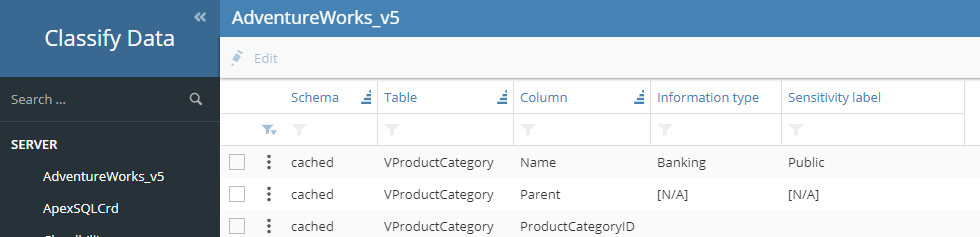
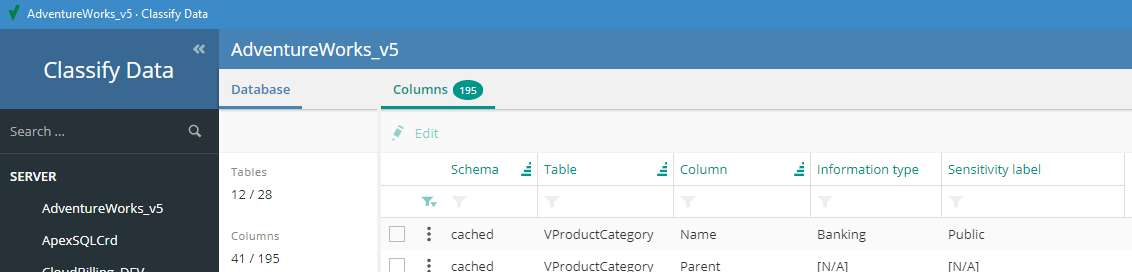
Added configuration

diff --git a/ClassifyData/App_Data/Websites/Default/index.html b/ClassifyData/App_Data/Websites/Default/index.html
@@ -1,14 +1,31 @@
-<!DOCTYPE html>
+<!DOCTYPE html>
 <html lang="en">
 <head>
     <meta charset="utf-8" />
-    <meta http-equiv="X-UA-Compatible" content="IE=edge" />
     <title>Classify Data</title>
     <script src="web2/Libs/webcomponentsjs/webcomponents-lite.js"></script>
     <link href="//fonts.googleapis.com/css?family=Open+Sans:400,300,600,700,800" rel="stylesheet" type="text/css">
     <link rel="import" href="web2/vidyano.html" />
+    <style>
+        footer.style-scope.vi-menu {
+            display: none;
+        }
+    </style>
+    <script>
+        var pu;
+        function toggleManagement() {
+            var menu = document.querySelector("vi-menu");
+            if (pu) {
+                menu.push("programUnits", pu);
+                pu = null;
+            }
+            else
+                pu = menu.splice("programUnits", 2)[0];
+        }
+    </script>
 </head>
 <body class="fullbleed">
-    <vi-app label="Classify Data" class="fit"></vi-app>
+    <vi-app label="Classify Data" class="fit">
+    </vi-app>
 </body>
 </html>

diff --git a/ClassifyData/Service/ColumnInfoActions.cs b/ClassifyData/Service/ColumnInfoActions.cs
@@ -1,5 +1,6 @@
 using System.Collections.Generic;
 using System.Linq;
+using Vidyano.Service.ClientOperations;
 using Vidyano.Service.Repository;
 
 namespace ClassifyData.Service
@@ -11,6 +12,8 @@ namespace ClassifyData.Service
         private const string addExtendedPropertyFormat = "exec sp_addextendedproperty @name = N'{0}', @value = {1}, @level0type = N'Schema', @level0name = @p1, @level1type = N'Table',  @level1name = @p2, @level2type = N'Column', @level2name = @p0;";
         private static readonly string setExtendedPropertiesFormat = "use [{0}];" + string.Format(addExtendedPropertyFormat, "sys_information_type_id", "@p3") + string.Format(addExtendedPropertyFormat, "sys_information_type_name", "@p4") + string.Format(addExtendedPropertyFormat, "sys_sensitivity_label_id", "@p5") + string.Format(addExtendedPropertyFormat, "sys_sensitivity_label_name", "@p6");
         private static readonly string updateExtendedPropertiesFormat = setExtendedPropertiesFormat.Replace("sp_addextendedproperty", "sp_updateextendedproperty");
+        private const string tablesFormat = "use [{0}]; select sum(case when a.count = 0 then 0 else 1 end) Count, count(0) Total from (\r\nselect sum(case when t_id.name is null then 0 else 1 end) count\r\n\tfrom sys.tables t\r\n\tinner join sys.columns c on c.object_id = t.object_id\r\n\tleft join sys.extended_properties t_id on c.object_id = t_id.major_id and c.column_id = t_id.minor_id and t_id.name = \'sys_information_type_id\'\r\n\tgroup by t.object_id\r\n) a";
+        private const string columnsFormat = "use [{0}]; select sum(case when t_id.name is null then 0 else 1 end) [Count], count(0) [Total]\r\n\tfrom sys.tables t\r\n\tinner join sys.columns c on c.object_id = t.object_id\r\n\tleft join sys.extended_properties t_id on c.object_id = t_id.major_id and c.column_id = t_id.minor_id and t_id.name = \'sys_information_type_id\'";
 
         // ReSharper disable once RedundantOverriddenMember
         public override void OnBulkConstruct(PersistentObject obj, QueryResultItem[] selectedItems)
@@ -42,12 +45,29 @@ namespace ClassifyData.Service
             var sensitivityLabelId = (string)sensitivityLabelIdAttr ?? string.Empty;
             var sensitivityLabelName = sensitivityLabelId.Length > 0 ? sensitivityLabelIdAttr.Options.First(o => o.StartsWith(sensitivityLabelId + "=")).Split('=')[1] : string.Empty;
             Context.Database.ExecuteSqlCommand(sql, ids[0], ids[1], ids[2], informationTypeId, informationTypeName, sensitivityLabelId, sensitivityLabelName);
+
+            Manager.Current.QueueClientOperation(new RefreshOperation("ClassifyData.Database", obj.Parent.ObjectId));
         }
 
         public IEnumerable<ColumnInfo> ForDatabase(CustomQueryArgs args)
         {
             var database = args.Parent.ObjectId;
             return Context.Database.SqlQuery<ColumnInfo>(string.Format(infoFormat, database)).ToArray();
+        }
+
+        public static void SetInfo(ClassifyDataEntityModelContainer context, PersistentObject databaseObj)
+        {
+            var tablesInfo = context.Database.SqlQuery<CountTotal>(string.Format(tablesFormat, databaseObj.ObjectId)).First();
+            databaseObj["Tables"].SetOriginalValue(string.Format("{0} / {1}", tablesInfo.Count, tablesInfo.Total));
+            var columnInfo = context.Database.SqlQuery<CountTotal>(string.Format(columnsFormat, databaseObj.ObjectId)).First();
+            databaseObj["Columns"].SetOriginalValue(string.Format("{0} / {1}", columnInfo.Count, columnInfo.Total));
+        }
+
+        private sealed class CountTotal
+        {
+            public int Count { get; set; }
+
+            public int Total { get; set; }
         }
     }
 }

diff --git a/ClassifyData/Service/ClassifyDataEntityModelContainer.cs b/ClassifyData/Service/ClassifyDataEntityModelContainer.cs
@@ -1,12 +1,51 @@
+using System.Configuration;
 using System.Data.Entity;
+using Vidyano.Service.ClientOperations;
+using Vidyano.Service.Repository;
 
 namespace ClassifyData.Service
 {
-    public partial class ClassifyDataEntityModelContainer : DbContext
+    public class ClassifyDataEntityModelContainer : DbContext
     {
+        private static string _connectionString;
+
         static ClassifyDataEntityModelContainer()
         {
             System.Data.Entity.Database.SetInitializer<ClassifyDataEntityModelContainer>(null);
+
+            var cfg = ConfigurationManager.OpenExeConfiguration(ConfigurationUserLevel.None);
+            var connectionStrings = (ConnectionStringsSection)cfg.GetSection("connectionStrings");
+            ConnectionString = connectionStrings.ConnectionStrings["ClassifyDataEntityModelContainer"].ConnectionString;
         }
+
+        public ClassifyDataEntityModelContainer()
+            : base(ConnectionString)
+        {
+        }
+
+        public static string ConnectionString
+        {
+            get => _connectionString;
+            set
+            {
+                if (_connectionString != value)
+                {
+                    var newValue = _connectionString != null;
+                    _connectionString = value;
+
+                    if (newValue)
+                    {
+                        var cfg = ConfigurationManager.OpenExeConfiguration(ConfigurationUserLevel.None);
+                        var connectionStrings = (ConnectionStringsSection)cfg.GetSection("connectionStrings");
+                        connectionStrings.ConnectionStrings["ClassifyDataEntityModelContainer"].ConnectionString = _connectionString;
+                        cfg.Save(ConfigurationSaveMode.Minimal);
+
+                        Manager.Current.QueueClientOperation(ExecuteMethodOperation.ReloadPage());
+                    }
+                }
+            }
+        }
+
+        public static string Exception { get; set; }
     }
 }

diff --git a/ClassifyData/Service/ClassifyDataAdvanced.cs b/ClassifyData/Service/ClassifyDataAdvanced.cs
@@ -1,6 +1,7 @@
 using System;
 using System.Collections.Generic;
 using System.Linq;
+using Vidyano.Core.Services;
 using Vidyano.Service;
 using Vidyano.Service.Repository;
 
@@ -17,11 +18,25 @@ namespace ClassifyData.Service
             {
                 var databasePo = Manager.Current.GetPersistentObject("Database");
 
-                using (var context = new ClassifyDataEntityModelContainer())
+                try
                 {
-                    var databases = context.Database.SqlQuery<string>("select name from sys.databases where database_id > 4 and state = 0 order by name");
-                    foreach (var database in databases)
-                        server.AddPersistentObjectItem(database, database, databasePo, database);
+                    using (var context = new ClassifyDataEntityModelContainer())
+                    {
+                        var databases = context.Database.SqlQuery<string>("select name from sys.databases where database_id > 4 and state = 0 order by name");
+                        foreach (var database in databases)
+                            server.AddPersistentObjectItem(database, database, databasePo, database);
+                    }
+
+                    ClassifyDataEntityModelContainer.Exception = null;
+                }
+                catch (Exception e)
+                {
+                    ServiceLocator.GetService<IExceptionService>().Log(e);
+
+                    // NOTE: Assuming bad connection string
+                    programUnits.Remove(server);
+
+                    ClassifyDataEntityModelContainer.Exception = e.InnerException?.Message ?? e.Message;
                 }
             }
         }

diff --git a/ClassifyData.App/AppMenuHandler.cs b/ClassifyData.App/AppMenuHandler.cs
@@ -1,0 +1,42 @@
+using CefSharp;
+
+namespace ClassifyData.App
+{
+    public class AppMenuHandler : IContextMenuHandler
+    {
+        public void OnBeforeContextMenu(IWebBrowser browserControl, IBrowser browser, IFrame frame, IContextMenuParams parameters, IMenuModel model)
+        {
+            if (model.Count > 0)
+                model.AddSeparator();
+
+            model.AddItem((CefMenuCommand)26501, "Show DevTools");
+            model.AddItem((CefMenuCommand)26502, "Toggle Management");
+        }
+
+        public bool OnContextMenuCommand(IWebBrowser browserControl, IBrowser browser, IFrame frame, IContextMenuParams parameters, CefMenuCommand commandId, CefEventFlags eventFlags)
+        {
+            if (commandId == (CefMenuCommand)26501)
+            {
+                browser.GetHost().ShowDevTools();
+                return true;
+            }
+
+            if (commandId == (CefMenuCommand)26502)
+            {
+                frame.ExecuteJavaScriptAsync("toggleManagement()");
+                return true;
+            }
+
+            return false;
+        }
+
+        public void OnContextMenuDismissed(IWebBrowser browserControl, IBrowser browser, IFrame frame)
+        {
+        }
+
+        public bool RunContextMenu(IWebBrowser browserControl, IBrowser browser, IFrame frame, IContextMenuParams parameters, IMenuModel model, IRunContextMenuCallback callback)
+        {
+            return false;
+        }
+    }
+}

diff --git a/ClassifyData.App/Program.cs b/ClassifyData.App/Program.cs
@@ -1,27 +1,40 @@
 using System;
+using System.Web.Http;
 using System.Windows.Forms;
 using CefSharp;
 using Microsoft.Owin.Hosting;
+using Owin;
+using Vidyano.Service;
 
 namespace ClassifyData.App
 {
-    class Program
+    static class Program
     {
+        public static readonly string BaseAddress = "http://localhost:9987/";
+
         [STAThread]
         static void Main()
         {
-            var baseAddress = "http://localhost:9000/";
+            // TODO: Show information when application fails to startup
 
-            using (WebApp.Start<Startup>(baseAddress))
+            using (WebApp.Start(BaseAddress, Configuration)) // TODO: Try other ports in case 9000 is in use
             {
                 var settings = new CefSettings();
                 settings.BrowserSubprocessPath = @"x86\CefSharp.BrowserSubprocess.exe";
 
-                Cef.Initialize(settings, performDependencyCheck: false, browserProcessHandler: null);
+                Cef.Initialize(settings);
 
                 var browser = new AppForm();
                 Application.Run(browser);
             }
+        }
+
+        private static void Configuration(IAppBuilder appBuilder)
+        {
+            var config = new HttpConfiguration();
+            config.Routes.MapVidyanoRoute();
+
+            appBuilder.UseWebApi(config);
         }
     }
 }

diff --git a/ClassifyData/Service/ConfigurationActions.cs b/ClassifyData/Service/ConfigurationActions.cs
@@ -1,0 +1,24 @@
+using Vidyano.Service.Repository;
+
+namespace ClassifyData.Service
+{
+    public class ConfigurationActions : PersistentObjectActionsReference<ClassifyDataEntityModelContainer, object>
+    {
+        public override void OnLoad(PersistentObject obj, PersistentObject parent)
+        {
+            obj["ConnectionString"].SetOriginalValue(ClassifyDataEntityModelContainer.ConnectionString);
+
+            var exception = ClassifyDataEntityModelContainer.Exception;
+            if (exception != null)
+                obj.AddNotification(exception, NotificationType.Warning);
+        }
+
+        public override void OnSave(PersistentObject obj)
+        {
+            if (!CheckRules(obj))
+                return;
+
+            ClassifyDataEntityModelContainer.ConnectionString = (string)obj["ConnectionString"];
+        }
+    }
+}

diff --git a/ClassifyData.App/AppForm.cs b/ClassifyData.App/AppForm.cs
@@ -1,12 +1,4 @@
-using System;
-using System.Collections.Generic;
-using System.ComponentModel;
-using System.Data;
-using System.Drawing;
-using System.Linq;
-using System.Text;
-using System.Threading.Tasks;
-using System.Windows.Forms;
+using System.Windows.Forms;
 using CefSharp;
 using CefSharp.WinForms;
 using CefSharp.WinForms.Internals;
@@ -23,9 +15,9 @@ namespace ClassifyData.App
 
             WindowState = FormWindowState.Maximized;
 
-            browser = new ChromiumWebBrowser("http://localhost:9000/")
+            browser = new ChromiumWebBrowser(Program.BaseAddress)
             {
-                Dock = DockStyle.Fill,
+                MenuHandler = new AppMenuHandler()
             };
             Controls.Add(browser);
 

diff --git a/ClassifyData/Service/DatabaseActions.cs b/ClassifyData/Service/DatabaseActions.cs
@@ -7,6 +7,8 @@ namespace ClassifyData.Service
         public override void OnLoad(PersistentObject obj, PersistentObject parent)
         {
             obj.Breadcrumb = obj.ObjectId;
+
+            ColumnInfoActions.SetInfo(Context, obj);
         }
     }
 }
